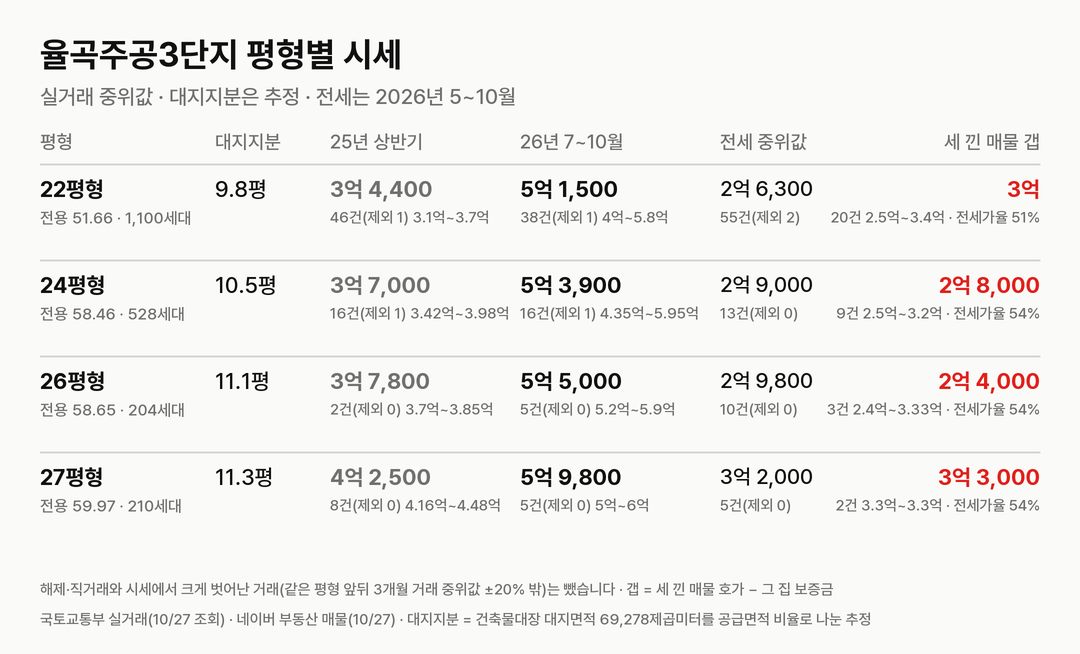
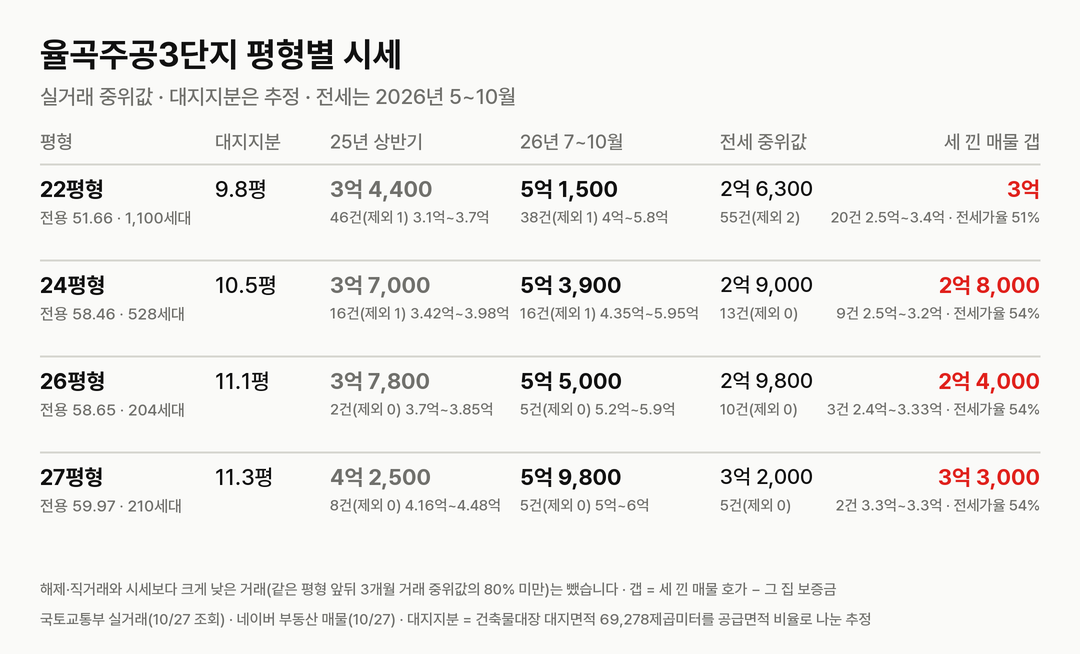
content: 단지 1~6편 이상치 기준을 아래쪽만(앞뒤 3개월 중위값 80% 미만)으로 — 율곡·영통포레파크원·초원부영 고가 정상 거래 4건 되살림 (10-30 총괄)

Changed region(s): [[0.1222, 0.8869, 0.7639, 0.9174]]

diff --git a/content/danji/yeongtong-forest-parkone.md b/content/danji/yeongtong-forest-parkone.md
@@ -2,7 +2,7 @@
 title: 수원 영통포레파크원(황골마을주공1단지) 재건축, 대지지분·실거래·세 낀 매물(2026)
 summary: 3,129세대 영통포레파크원은 영통 노후계획도시 기본계획과 선도지구 공모를 기다리는 단계이고, 25평형 실거래 중위값은 2026년 1월 4억 4,800만 원에서 10월 6억 5,200만 원으로 올랐다.
 date: 2026-10-29
-updated: 2026-10-29
+updated: 2026-10-30
 section: danji
 region: 경기
 sources:
@@ -18,7 +18,7 @@ faq:
   - q: 영통포레파크원 대지지분은 얼마인가요
     a: 건축물대장 대지면적 108,988㎡ 기준 세대당 평균 10.5평이고, 공급면적 비율로 나누면 20평형 9.0평, 23평형 10.3평, 24·25평형 10.9평으로 추정됩니다.
   - q: 영통포레파크원 25평형 시세는 얼마인가요
-    a: 전용 59㎡대 24·25평형의 2026년 7~10월 실거래 58건 중위값이 6억 2,500만 원이고, 월 중위값은 1월 4억 4,800만 원에서 10월 6억 5,200만 원으로 올랐습니다. 전세 중위값은 3억 5,000만 원입니다.
+    a: 전용 59㎡대 24·25평형의 2026년 7~10월 실거래 59건 중위값이 6억 2,500만 원이고, 월 중위값은 1월 4억 4,800만 원에서 10월 6억 5,200만 원으로 올랐습니다. 전세 중위값은 3억 5,000만 원입니다.
   - q: 영통포레파크원 세 낀 매물은 얼마나 싼가요
     a: 2026년 10월 29일 네이버 부동산 기준 24·25평형 중위 호가는 세 낀 매물 6억 5,000만 원, 실거주 매물 7억 원입니다. 영통구는 토지거래허가구역이라 사면 2년 실거주해야 합니다.
 ---
@@ -64,11 +64,11 @@ faq:
 |---|---|---|---|---|
 | 20평형(전용 49.44·49.76㎡, 517세대) | 9.0평 | 24건(0) 3억 1,800만~3억 8,300만, 3억 4,600만 | 14건(0) 4억 8,000만~6억 2,000만, 5억 5,500만 | 6,100만 |
 | 23평형(전용 59.8㎡, 180세대) | 10.3평 | 6건(0) 4억 2,500만~4억 6,000만, 4억 3,300만 | 8건(0) 5억 500만~6억 6,500만, 5억 9,800만 | 5,800만 |
-| 24·25평형(전용 59.94·59.99㎡, 2,432세대) | 10.9평 | 75건(7) 3억 5,000만~4억 8,000만, 4억 2,000만 | 58건(3) 4억 7,000만~6억 9,500만, 6억 2,500만 | 5,700만 |
+| 24·25평형(전용 59.94·59.99㎡, 2,432세대) | 10.9평 | 75건(7) 3억 5,000만~4억 8,000만, 4억 2,000만 | 59건(2) 4억 7,000만~6억 9,500만, 6억 2,500만 | 5,700만 |
 
-해제·직거래와 시세에서 크게 벗어난 거래(같은 평형 앞뒤 3개월 거래 중위값 ±20% 밖)는 뺐습니다. 괄호 안은 뺀 건수다. 국토교통부 실거래에는 옛 이름 '황골마을주공1'(영통동 955-1)로 올라 있다. 대지지분은 건축물대장 대지면적을 평형별 공급면적 비율로 나눈 추정값이다.
+해제·직거래와 시세보다 크게 낮은 거래(같은 평형 앞뒤 3개월 거래 중위값의 80% 미만)는 뺐습니다. 괄호 안은 뺀 건수다. 국토교통부 실거래에는 옛 이름 '황골마을주공1'(영통동 955-1)로 올라 있다. 대지지분은 건축물대장 대지면적을 평형별 공급면적 비율로 나눈 추정값이다.
 
-2025년 상반기 대비 2026년 7~10월 중위값은 20평형 60%, 23평형 38%, 24·25평형 49% 올랐다. 세대의 75%를 차지하는 전용 59.99㎡ 월 중위값은 1월 4억 4,800만 원에서 6월 5억 4,700만 원, 10월 6억 5,200만 원이 됐다(10월은 18건, 신고 기한 전). 매매 건수는 2025년 상반기 105건, 하반기 101건, 2026년 상반기 171건, 7~10월 80건이다. 정비구역 지정도 추진 주체도 없는 단지에서 이만큼 올랐다는 것은 영통 소형 구축 자체가 모자라다는 뜻이다.
+2025년 상반기 대비 2026년 7~10월 중위값은 20평형 60%, 23평형 38%, 24·25평형 49% 올랐다. 세대의 75%를 차지하는 전용 59.99㎡ 월 중위값은 1월 4억 4,800만 원에서 6월 5억 4,700만 원, 10월 6억 5,200만 원이 됐다(10월은 18건, 신고 기한 전). 매매 건수는 2025년 상반기 105건, 하반기 101건, 2026년 상반기 171건, 7~10월 81건이다. 정비구역 지정도 추진 주체도 없는 단지에서 이만큼 올랐다는 것은 영통 소형 구축 자체가 모자라다는 뜻이다.
 
 ![시세 추이](img/yeongtong-forest-parkone-price.png)
 

diff --git a/content/danji/yulgok3-sanbon.md b/content/danji/yulgok3-sanbon.md
@@ -2,7 +2,7 @@
 title: 산본 율곡주공3단지 재건축, 3-1구역 5,183세대 계획안·대지지분·실거래(2026)
 summary: 율곡주공3단지는 리모델링에서 퇴계와 묶은 통합재건축으로 돌아섰고, 군포시가 2026-10-26 3-1구역 지정 제안을 수용해 10-27부터 공람 중이다.
 date: 2026-10-29
-updated: 2026-10-29
+updated: 2026-10-30
 section: danji
 region: 경기
 sources:
@@ -81,9 +81,9 @@ faq:
 | 26평형(전용 58.65㎡) | 11.1평 | 2건(0) 3억 7,000만~3억 8,500만, 3억 7,800만 | 5건(0) 5억 2,000만~5억 9,000만, 5억 5,000만 | 5,000만 |
 | 27평형(전용 59.97㎡) | 11.3평 | 8건(0) 4억 1,600만~4억 4,800만, 4억 2,500만 | 5건(0) 5억~6억, 5억 9,800만 | 5,300만 |
 
-해제·직거래와 시세에서 크게 벗어난 거래(같은 평형 앞뒤 3개월 거래 중위값 ±20% 밖)는 뺐습니다. 괄호 안은 뺀 건수다. 대지지분은 건축물대장 대지면적을 평형별 공급면적 비율로 나눈 추정값이다.
+해제·직거래와 시세보다 크게 낮은 거래(같은 평형 앞뒤 3개월 거래 중위값의 80% 미만)는 뺐습니다. 괄호 안은 뺀 건수다. 대지지분은 건축물대장 대지면적을 평형별 공급면적 비율로 나눈 추정값이다.
 
-2025년 상반기 대비 2026년 7~10월 중위값은 22평형 50%, 24평형 46% 올랐다. 22평형 월 중위값은 1월 3억 7,500만 원에서 6월 4억 6,000만 원, 10월 5억 5,300만 원으로 올라섰다(10월은 10건, 신고 기한 전). 매매 건수는 2025년 상반기 72건, 하반기 100건, 2026년 상반기 122건, 7~10월 64건이다. 리모델링 분담금이 집값을 넘던 2024년과 달리, 재건축 구역 제안이 속도를 내면서 거래와 가격이 함께 붙었다.
+2025년 상반기 대비 2026년 7~10월 중위값은 22평형 50%, 24평형 46% 올랐다. 22평형 월 중위값은 1월 3억 7,500만 원에서 6월 4억 6,000만 원, 10월 5억 5,300만 원으로 올라섰다(10월은 10건, 신고 기한 전). 매매 건수는 2025년 상반기 72건, 하반기 100건, 2026년 상반기 123건, 7~10월 64건이다. 리모델링 분담금이 집값을 넘던 2024년과 달리, 재건축 구역 제안이 속도를 내면서 거래와 가격이 함께 붙었다.
 
 ![시세 추이](img/yulgok3-sanbon-price.png)
 

diff --git a/content/danji/chowon-bueong-pyeongchon.md b/content/danji/chowon-bueong-pyeongchon.md
@@ -82,13 +82,13 @@ faq:
 
 | 평형 | 대지지분(추정) | 2025년 상반기 건수(제외)·범위·중위값 | 2026년 7~10월 건수(제외)·범위·중위값 | 대지지분 1평당(2026) |
 |---|---|---|---|---|
-| 15평형(전용 37.85㎡, 768세대) | 7.2평 | 36건(1) 3억 4,500만~4억 1,700만, 4억 | 16건(2) 4억 4,500만~6억, 5억 1,800만 | 7,200만 |
+| 15평형(전용 37.85㎡, 768세대) | 7.2평 | 36건(1) 3억 4,500만~4억 1,700만, 4억 | 18건(0) 4억 4,500만~6억, 5억 2,500만 | 7,300만 |
 | 20평형(전용 50㎡, 525세대) | 9.5평 | 14건(2) 5억~5억 9,700만, 5억 8,100만 | 7건(0) 7억~8억 2,000만, 7억 4,000만 | 7,800만 |
 | 24평형(전용 60㎡, 450세대) | 11.3평 | 13건(1) 6억 7,500만~7억 3,000만, 7억 | 6건(3) 8억~9억, 8억 7,000만 | 7,700만 |
 
-해제·직거래와 시세에서 크게 벗어난 거래(같은 평형 앞뒤 3개월 거래 중위값 ±20% 밖)는 뺐습니다. 괄호 안은 뺀 건수다. 대지지분은 건축물대장 대지면적을 평형별 공급면적 비율로 나눈 추정값이다.
+해제·직거래와 시세보다 크게 낮은 거래(같은 평형 앞뒤 3개월 거래 중위값의 80% 미만)는 뺐습니다. 괄호 안은 뺀 건수다. 대지지분은 건축물대장 대지면적을 평형별 공급면적 비율로 나눈 추정값이다.
 
-2025년 상반기 대비 2026년 7~10월 중위값은 15평형 29%, 20평형 27%, 24평형 24% 올랐다. 15평형 월 중위값은 1~6월 4억 3,700만~4억 5,500만 원에 머물다가 주민제안 접수 뒤 7월 4억 8,000만 원, 8월 5억 3,000만 원, 10월 5억 8,800만 원으로 올라섰다(10월은 2건, 신고 기한 전). 매매 건수는 2025년 상반기 63건, 하반기 44건, 2026년 상반기 76건, 7~10월 29건이다.
+2025년 상반기 대비 2026년 7~10월 중위값은 15평형 31%, 20평형 27%, 24평형 24% 올랐다. 15평형 월 중위값은 1~6월 4억 3,700만~4억 5,500만 원에 머물다가 주민제안 접수 뒤 7월 4억 8,000만 원, 8월 5억 3,000만 원, 10월 5억 8,800만 원으로 올라섰다(10월은 2건, 신고 기한 전). 매매 건수는 2025년 상반기 63건, 하반기 44건, 2026년 상반기 76건, 7~10월 31건이다.
 
 ![시세 추이](img/chowon-bueong-pyeongchon-price.png)
 

diff --git a/content/danji/podo-sambo-yeongnam.md b/content/danji/podo-sambo-yeongnam.md
@@ -2,7 +2,7 @@
 title: 부천 중동 포도마을 삼보영남 재건축, 3,000세대 계획안·대지지분·실거래(2026)
 summary: 포도마을 삼보영남은 2,146세대 구역을 3,000세대로 짓는 계획안이 공람됐고 2027년 1분기 지정이 목표다.
 date: 2026-10-27
-updated: 2026-10-27
+updated: 2026-10-30
 section: danji
 region: 경기
 sources:
@@ -81,7 +81,7 @@ faq:
 | 28평형(전용 75.19㎡) | 12.9평 | 14건(0) 6억~6억 6,700만, 6억 3,000만 | 10건(1) 6억 7,500만~8억 2,300만, 7억 5,300만 | 5,800만 |
 | 31평형(전용 84.85㎡, 국평) | 14.3평 | 4건(0) 6억 2,300만~7억 200만, 6억 6,700만 | 8건(1) 7억 3,000만~8억 3,700만, 7억 9,900만 | 5,600만 |
 
-해제·직거래와 시세에서 크게 벗어난 거래(같은 평형 앞뒤 3개월 거래 중위값 ±20% 밖)는 뺐습니다. 괄호 안은 뺀 건수다. 국토교통부 실거래에는 '포도마을(삼보)'와 '포도마을(영남)'이 같은 지번(중동 1170)으로 올라 있어 합쳐 셌다. 대지지분은 건축물대장 대지면적을 평형별 공급면적 비율로 나눈 추정값이다.
+해제·직거래와 시세보다 크게 낮은 거래(같은 평형 앞뒤 3개월 거래 중위값의 80% 미만)는 뺐습니다. 괄호 안은 뺀 건수다. 국토교통부 실거래에는 '포도마을(삼보)'와 '포도마을(영남)'이 같은 지번(중동 1170)으로 올라 있어 합쳐 셌다. 대지지분은 건축물대장 대지면적을 평형별 공급면적 비율로 나눈 추정값이다.
 
 2025년 상반기 대비 2026년 7~10월 중위값은 23평형 31%, 28평형 19%, 국평 20% 올랐다. 매매 건수는 2025년 상반기 25건, 하반기 36건, 2026년 상반기 57건, 7~10월 21건이다(10월은 신고 기한 전).
 

diff --git a/content/danji/areum4-imae.md b/content/danji/areum4-imae.md
@@ -2,7 +2,7 @@
 title: 분당 이매동 아름마을4단지 두산삼호 재건축, 대지지분·실거래·사업 단계(2026)
 summary: 아름마을4단지 두산삼호 국평 실거래 중위값은 2026년 17억 3,000만 원으로 35% 올랐고 분당 2차 정비구역에는 빠졌다.
 date: 2026-10-26
-updated: 2026-10-27
+updated: 2026-10-30
 section: danji
 region: 경기
 sources:
@@ -51,7 +51,7 @@ faq:
 | 57평형(전용 158.4㎡) | 176 | 27.3평 | 5건(0) 18억~18억 5,000만, 18억 1,000만 | 거래 없음(제외 1) | - |
 | 63평형(전용 178.23㎡) | 8 | 30.2평 | 거래 없음 | 거래 없음 | - |
 
-해제·직거래와 시세에서 크게 벗어난 거래(같은 평형 앞뒤 3개월 거래 중위값 ±20% 밖)는 뺐습니다. 괄호 안은 뺀 건수다.
+해제·직거래와 시세보다 크게 낮은 거래(같은 평형 앞뒤 3개월 거래 중위값의 80% 미만)는 뺐습니다. 괄호 안은 뺀 건수다.
 
 대지지분은 건축물대장 대지면적을 평형별 공급면적 비율로 나눈 추정값이다. 47평형 이상이 668세대로 전체의 59%다. 국토교통부 실거래에는 같은 지번(이매동 133)이 '아름마을(두산)'과 '아름마을(삼호)' 두 이름으로 올라 있어 합쳐 셌다.
 

diff --git a/content/danji/byeokjeokgol8-yeongtong.md b/content/danji/byeokjeokgol8-yeongtong.md
@@ -2,7 +2,7 @@
 title: 영통 벽적골8단지 두산·우성·한신 리모델링, 1,842세대 이주 시작과 거래 급증(2026)
 summary: 벽적골8단지 두산·우성·한신은 2026년 8월 이주를 시작했고 9월 매매 96건으로 영통구 거래의 19%였다.
 date: 2026-10-26
-updated: 2026-10-27
+updated: 2026-10-30
 section: danji
 region: 경기
 sources:
@@ -69,7 +69,7 @@ faq:
 | 2026년 9월 | 96건(4) | 4억 4,000만~6억 300만 | 5억 1,700만 | 5,200만 |
 | 2026년 10월 | 20건(0) | 5억~6억 1,000만 | 5억 9,000만 | 5,900만 |
 
-해제·직거래와 시세에서 크게 벗어난 거래(같은 평형 앞뒤 3개월 거래 중위값 ±20% 밖)는 뺐습니다. 괄호 안은 뺀 건수다.
+해제·직거래와 시세보다 크게 낮은 거래(같은 평형 앞뒤 3개월 거래 중위값의 80% 미만)는 뺐습니다. 괄호 안은 뺀 건수다.
 
 국토교통부 실거래에는 두산·우성·한신이 같은 지번(영통동 973-3)의 세 단지로 올라 있어 합쳐 셌다. 10월은 신고 기한 전 값이다.
 
